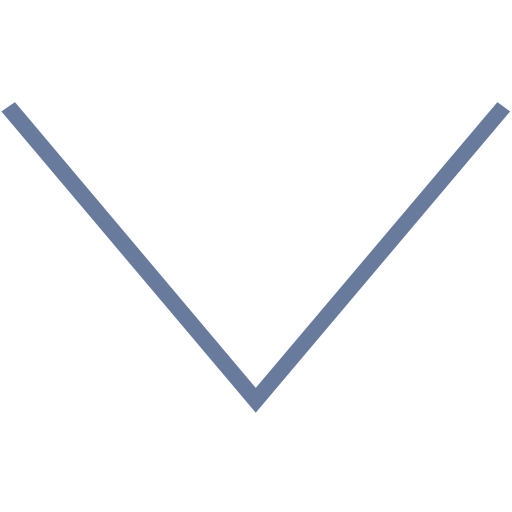
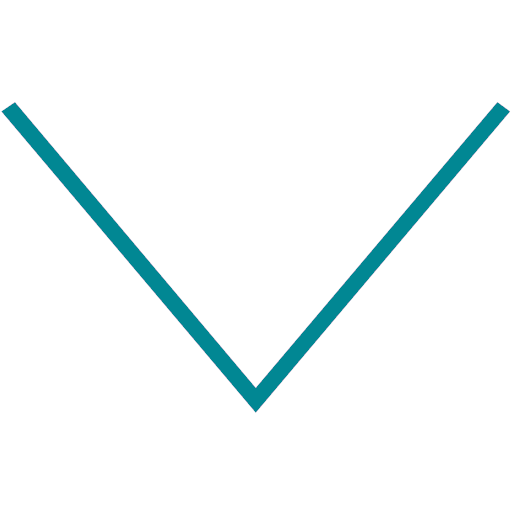
New Color Scheme

Changed region(s): [[0.0, 0.1875, 1.0, 0.8125]]

diff --git a/css/style.css b/css/style.css
@@ -1,3 +1,5 @@
+
+
 *, a {
   box-sizing: border-box;
   font-family: "Tajawal", sans-serif;
@@ -6,6 +8,9 @@
   border: 0;
   text-decoration: none;
   -webkit-font-smoothing: antialiased;
+  --main: #018793;
+  --main-lighter: #43afb4;
+  --main-even-lighter: #8dc0bc73;
 }
 
 body {
@@ -46,8 +51,8 @@ button img, button {
 }
 #navigation ul#topnav li.current {
   padding-bottom: calc(0.5em - 2px);
-  border-bottom: 2px inset #697B9D;
-  color: #697B9D;
+  border-bottom: 2px inset var(--main);
+  color: var(--main);
   background-color: #e1e1e1;
 }
 #navigation ul#topnav li a {
@@ -56,8 +61,8 @@ button img, button {
 }
 #navigation ul#topnav li:hover {
   padding-bottom: calc(0.5em - 2px);
-  border-bottom: 2px inset #8896b1;
-  color: #8896b1;
+  border-bottom: 2px inset var(--main-lighter);
+  color: var(--main-lighter);
   background-color: #e6e6e6;
 }
 
@@ -111,7 +116,7 @@ img {
   border-radius: 50%;
   margin: 1em;
   background-color: #ddd;
-  border: 4px solid #bbb;
+  border: 4px solid var(--main-even-lighter);
   margin-bottom: 1.5em;
 }
 .content .imgs .imgcontain img {
@@ -136,7 +141,7 @@ img {
   color: #eee;
   display: inline-block;
   padding: 0.75rem 2rem;
-  background-color: #697B9D;
+  background-color: var(--main);
   text-align: center;
   line-height: 2rem;
   height: 3.2rem;
@@ -147,8 +152,8 @@ img {
 }
 .content .btns a.btn:hover {
   transform: scale(1.03);
-  background-color: #8896b1;
-  box-shadow: 0 0 0 2px rgba(105, 123, 157, 0.5) inset, 0 0 0 2px rgba(105, 123, 157, 0.5);
+  background-color: var(--main-lighter);
+  box-shadow: 0 0 0 2px var(--main-even-lighter) inset, 0 0 0 2px var(--main-even-lighter);
 }
 .content .btns a.btn:active {
   transform: scale(0.9);
@@ -179,7 +184,7 @@ img {
   color: #eee;
   display: inline-block;
   padding: 0.75rem 2rem;
-  background-color: #697B9D;
+  background-color: var(--main);
   text-align: center;
   line-height: 2rem;
   height: 3.2rem;
@@ -190,25 +195,25 @@ img {
 }
 .btn:hover {
   transform: scale(1.03);
-  background-color: #8896b1;
-  box-shadow: 0 0 0 2px rgba(105, 123, 157, 0.5) inset, 0 0 0 2px rgba(105, 123, 157, 0.5);
+  background-color: var(--main-lighter);
+  box-shadow: 0 0 0 2px var(--main-even-lighter) inset, 0 0 0 2px var(--main-even-lighter);
 }
 
 .frmctrl {
   display: block;
   width: 100%;
-  border: 2px solid #697B9D;
+  border: 2px solid var(--main);
   line-height: 1.3em;
   font-size: 1em;
   padding: 0.15em;
 }
 .frmctrl:hover {
-  border: 2px solid #8896b1;
+  border: 2px solid var(--main-lighter);
 }
 
 .footer {
   height: 5em;
-  background-color: #697B9D;
+  background-color: var(--main);
   text-align: center;
 }
 .footer p {
@@ -314,7 +319,7 @@ img {
     right: 0;
     height: 100vh;
     width: 100vw;
-    background-color: #697B9D;
+    background-color: var(--main);
     z-index: 300;
     overflow: hidden;
     transition: visibility 0s linear 0.4s, opacity 0.4s ease-in-out;
